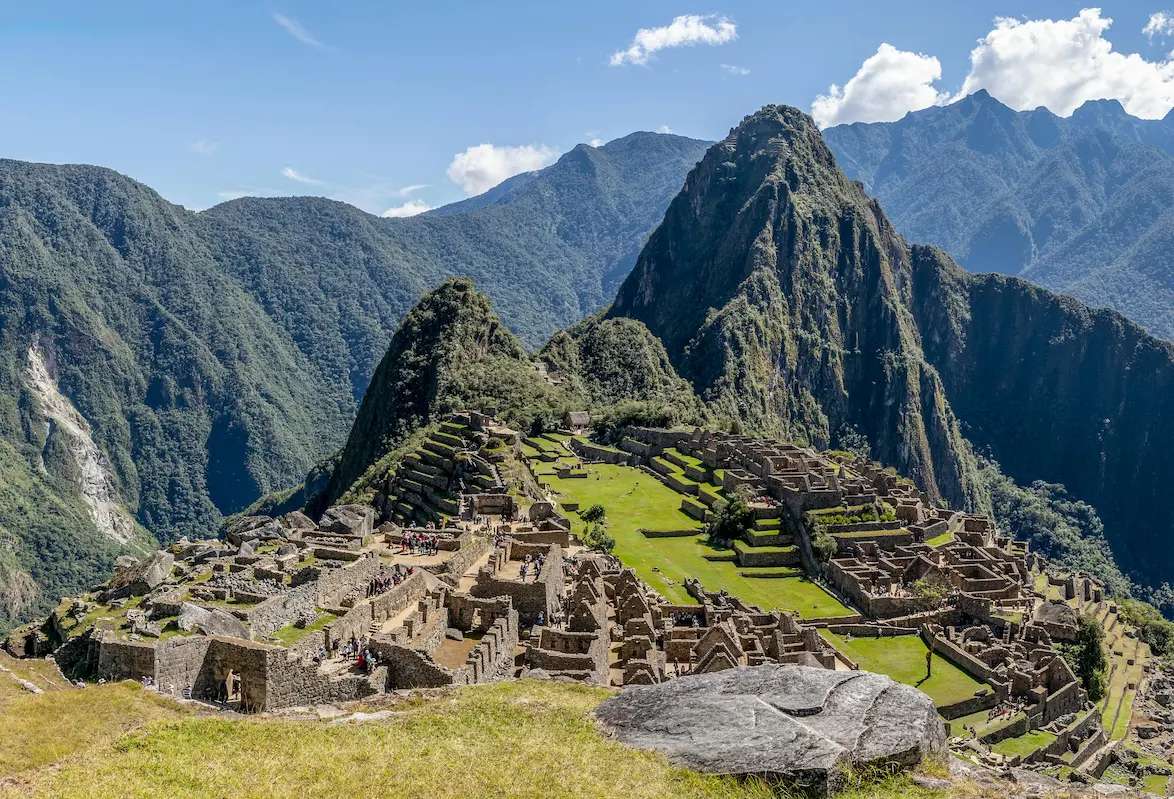
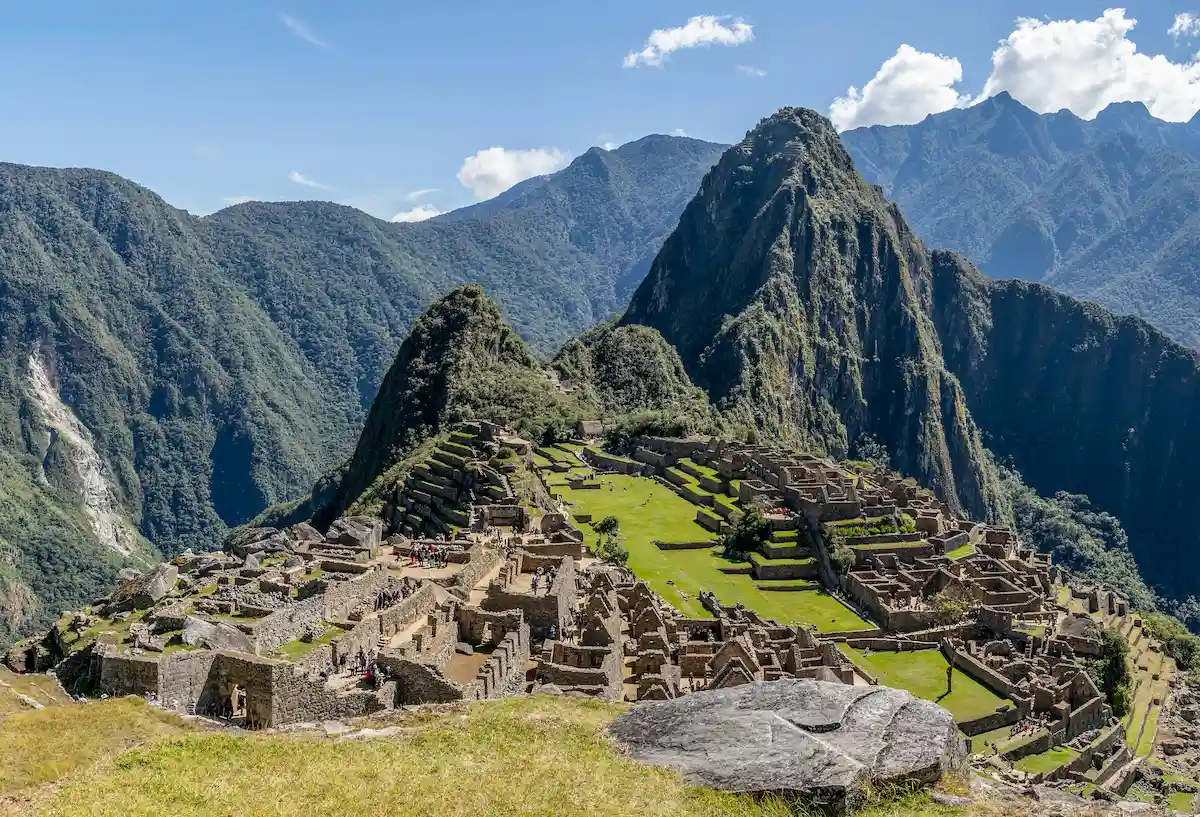
fixes on w3 assigment

diff --git a/place.html b/place.html
@@ -3,9 +3,9 @@
   <head>
     <meta charset="UTF-8">
     <meta name="viewport" content="width=device-width, initial-scale=1.0">
-    <meta name="description" content="Explore Perú – facts, culture, and climate of a beautiful country in South America.">
+    <meta name="description" content="Explore Peru - facts, culture, and climate of a beautiful country in South America.">
     <meta name="author" content="Isaias Zuniga">
-    <title>Perú – WDD 131</title>
+    <title>Peru - WDD 131</title>
     <link rel="preconnect" href="https://fonts.googleapis.com">
     <link rel="preconnect" href="https://fonts.gstatic.com" crossorigin>
     <link href="https://fonts.googleapis.com/css2?family=Poppins:wght@400;700&family=Open+Sans&display=swap" rel="stylesheet">
@@ -16,11 +16,10 @@
   <body>
 
     <header>
-      <span>Explore Perú</span>
+      <h1>Per&uacute;</h1>
     </header>
 
     <main>
-      <h1>Perú</h1>
 
       <div class="hero-container">
 
@@ -28,7 +27,7 @@
           <source srcset="./images/peru-hero-large.webp" media="(min-width: 641px)">
           <img
             src="./images/peru-hero-small.webp"
-            alt="Machu Picchu, the ancient Incan citadel in Perú"
+            alt="Machu Picchu, the ancient Incan citadel in Peru"
             width="600"
             height="400"
             loading="lazy"
@@ -37,7 +36,7 @@
 
         <!-- Data / facts section -->
         <section class="data">
-          <h2>About Perú</h2>
+          <h2>Data</h2>
           <table>
             <tr>
               <th>Capital</th>
@@ -53,7 +52,7 @@
             </tr>
             <tr>
               <th>Area</th>
-              <td>1,285,216 km²</td>
+              <td>1,285,216 km&sup2;</td>
             </tr>
             <tr>
               <th>Currency</th>
@@ -61,12 +60,14 @@
             </tr>
             <tr>
               <th>Time Zone</th>
-              <td>UTC−5</td>
+              <td>UTC&minus;5</td>
             </tr>
           </table>
         </section>
 
+        <!-- Weather section -->
         <section class="weather">
+          <!-- SVG icon shown on mobile only (hidden on wide via CSS) -->
           <img
             src="./images/weather-icon.svg"
             alt="Partly cloudy weather icon"
@@ -75,11 +76,11 @@
             height="80"
           >
           <h2>Weather</h2>
-          <p class="weather-location">Lima, Perú</p>
+          <p class="weather-location">Lima, Per&uacute;</p>
           <div class="weather-details">
-            <p>Temperature: <strong>8 °C</strong></p>
+            <p>Temperature: <strong>18 &deg;C</strong></p>
             <p>Wind Speed: <strong>15 km/h</strong></p>
-            <p>Wind Chill: <strong><span id="windchill">—</span></strong></p>
+            <p>Wind Chill: <strong><span id="windchill">&mdash;</span></strong></p>
           </div>
         </section>
 
@@ -87,7 +88,7 @@
     </main>
 
     <footer>
-      <p>&copy; <span id="currentyear"></span> Isaias Zuniga &mdash; Lima, Perú</p>
+      <p>&copy; <span id="currentyear"></span> Isaias Zuniga &mdash; Lima, Per&uacute;</p>
       <p id="lastModified"></p>
     </footer>
 

diff --git a/styles/place.css b/styles/place.css
@@ -30,31 +30,22 @@ body {
 header {
   background-color: var(--color-primary);
   color: var(--color-white);
-  padding: 1rem 1.5rem;
-  border-bottom: 4px solid var(--color-accent);
+  padding: 1.2rem 1.5rem;
+  text-align: center;
 }
 
-header span {
+header h1 {
   font-family: var(--font-heading);
-  font-size: 1.4rem;
+  font-size: 2rem;
   font-weight: 700;
-  letter-spacing: 0.5px;
+  color: var(--color-white);
 }
 
 /* ── Main ── */
 main {
   max-width: 900px;
-  margin: 2rem auto;
+  margin: 1.5rem auto;
   padding: 0 1rem;
-}
-
-main h1 {
-  font-family: var(--font-heading);
-  font-size: 2rem;
-  color: var(--color-primary);
-  margin-bottom: 1.5rem;
-  padding-bottom: 0.5rem;
-  border-bottom: 2px solid var(--color-accent);
 }
 
 /* ── Hero container (mobile: normal flow) ── */
@@ -67,7 +58,6 @@ main h1 {
   width: 100%;
   height: auto;
   display: block;
-  border-radius: 8px;
   margin-bottom: 1.5rem;
 }
 
@@ -82,11 +72,12 @@ main h1 {
 
 .data h2 {
   font-family: var(--font-heading);
-  font-size: 1.4rem;
-  color: var(--color-primary);
+  font-size: 1.3rem;
+  color: var(--color-white);
+  background-color: var(--color-primary);
+  padding: 0.4rem 0.8rem;
   margin-bottom: 1rem;
-  padding-bottom: 0.4rem;
-  border-bottom: 2px solid var(--color-accent);
+  border-radius: 4px;
 }
 
 .data table {
@@ -97,15 +88,16 @@ main h1 {
 .data th,
 .data td {
   text-align: left;
-  padding: 0.5rem 0.6rem;
-  font-size: 0.95rem;
+  padding: 0.4rem 0.6rem;
+  font-size: 0.9rem;
   border-bottom: 1px solid #e8e0e0;
 }
 
 .data th {
   font-weight: 700;
   color: var(--color-primary);
-  width: 40%;
+  text-align: right;
+  width: 45%;
 }
 
 /* ── Weather section ── */
@@ -126,22 +118,33 @@ main h1 {
 
 .weather h2 {
   font-family: var(--font-heading);
-  font-size: 1.4rem;
-  color: var(--color-primary);
-  margin-bottom: 0.5rem;
+  font-size: 1.3rem;
+  color: var(--color-white);
+  background-color: var(--color-primary);
+  padding: 0.4rem 0.8rem;
+  margin-bottom: 0.75rem;
+  border-radius: 4px;
+  display: inline-block;
 }
 
-.weather > p {
-  font-size: 0.9rem;
+.weather-location {
+  font-size: 0.85rem;
   color: #666;
-  margin-bottom: 1rem;
+  margin-bottom: 0.75rem;
 }
 
 .weather-details {
   display: flex;
   flex-direction: column;
+  gap: 0.4rem;
+  font-size: 0.9rem;
+  text-align: right;
+}
+
+.weather-details p {
+  display: flex;
+  justify-content: space-between;
   gap: 0.5rem;
-  font-size: 1rem;
 }
 
 /* ── Footer ── */

diff --git a/styles/place-large.css b/styles/place-large.css
@@ -46,8 +46,8 @@
   }
 
   /* Pseudo-element weather icon before "Weather" heading on wide view */
-  .weather h2::before {
-    content: "⛅ ";
+  .weather h2::after {
+    content: " ⛅";
   }
 
   /* Hide hamburger, show nav as row if nav is added later */
